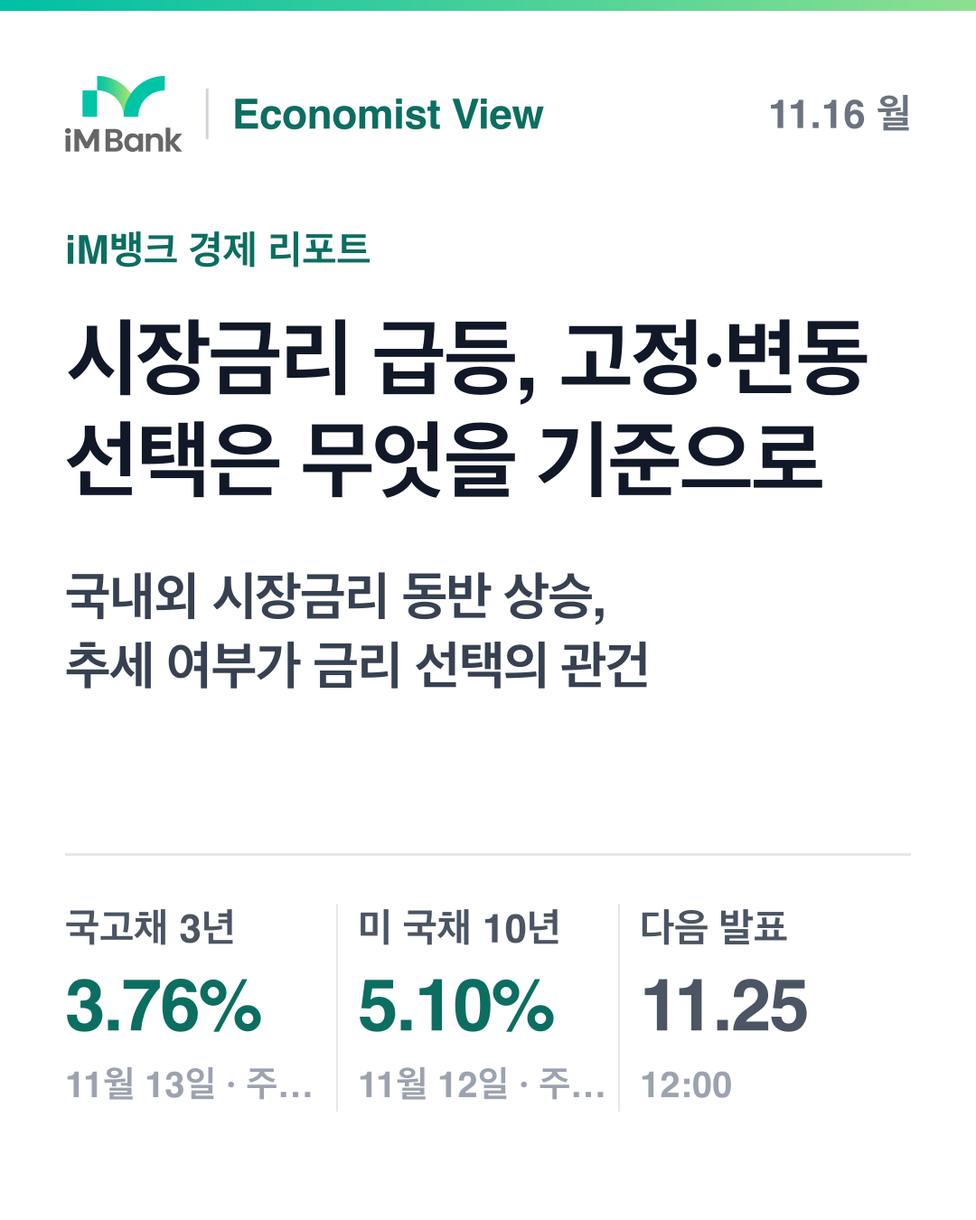
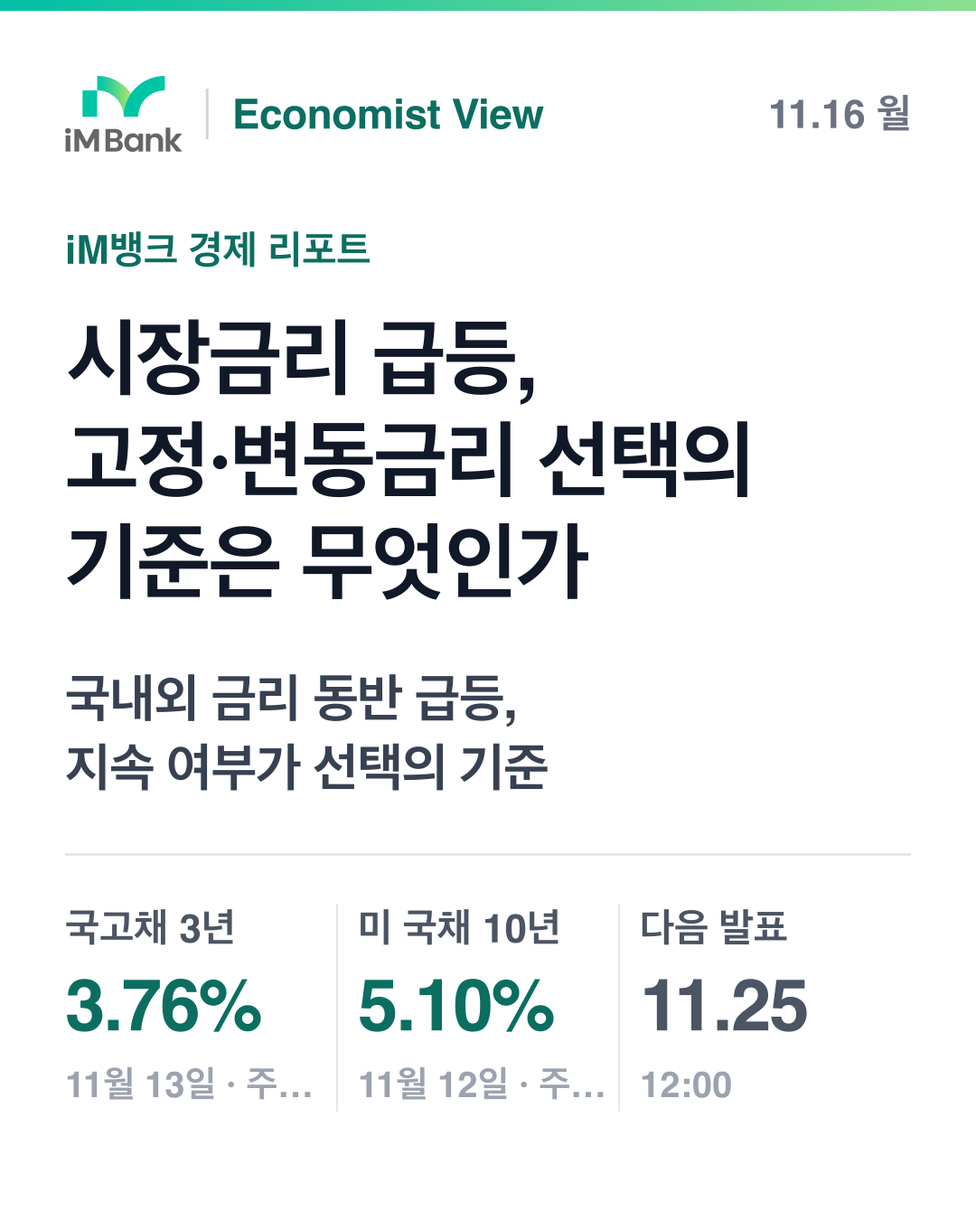
preview: 근거표 모바일 배치 — 확인용
Claude-Session: https://claude.ai/code/session_01VBBXT8zS9TT6j7sAH1a9k2

Changed region(s): [[0.0611, 0.2489, 0.8861, 0.6533]]

diff --git a/public/economist-view/2026-11-16.html b/public/economist-view/2026-11-16.html
@@ -3,9 +3,9 @@
 <head>
 <meta charset="UTF-8">
 <meta name="viewport" content="width=device-width, initial-scale=1.0">
-<title>시장금리 급등, 고정·변동 선택은 무엇을 기준으로 - iM뱅크 Economist View</title>
-<meta property="og:title" content="시장금리 급등, 고정·변동 선택은 무엇을 기준으로">
-<meta property="og:description" content="지난주 국내외 시장금리가 같은 방향으로 크게 올랐지만, 한 주의 움직임만으로 추세를 단정하기는 이릅니다. 고정금리와 변동금리의 선택은 시장 흐름을 맞히는 문제라기보다 본인의 상환 구조와 금리 변동을 감당할 여력을 기준으로 판단하는 것이 합리적이라고 봅니다.">
+<title>시장금리 급등, 고정·변동금리 선택의 기준은 무엇인가 - iM뱅크 Economist View</title>
+<meta property="og:title" content="시장금리 급등, 고정·변동금리 선택의 기준은 무엇인가">
+<meta property="og:description" content="지난주 국내외 시장금리가 함께 크게 올랐지만, 한 주의 움직임만으로 대출금리의 추세가 바뀌었다고 판단하기는 이릅니다. 오른 수준이 유지된다면 신규 대출금리에 시차를 두고 반영될 수 있고 되돌려진다면 그 의미가 작아지므로, 고정·변동금리 선택은 결정 시점보다 본인의 상환 기간과 금리 변동 감내 여력을 기준으로 보는 편이 합">
 <meta property="og:site_name" content="iM뱅크">
 <meta property="og:type" content="article">
 <meta property="og:image" content="https://dailyreport-eta.vercel.app/economist-view/2026-11-16-preview.png">
@@ -530,8 +530,6 @@
 .report-embed .ev-check { background: #F0FAF7; border: 1px solid #CDEDE4; border-radius: 14px; padding: 14px 16px; margin: 18px 0; }
 .report-embed .ev-check-title { font-size: 13px; font-weight: 700; color: #0B6E61; margin-bottom: 6px; }
 .report-embed .ev-next { font-size: 14px; line-height: 1.6; margin: 10px 0 0; color: var(--text); }
-.report-embed .ev-table { width: 100%; border-collapse: collapse; font-size: 12.5px; }
-.report-embed .ev-table th, .report-embed .ev-table td { border-bottom: 1px solid #EEF2F7; padding: 6px 4px; text-align: left; vertical-align: top; word-break: keep-all; }
 .report-embed .ev-view { border: 1px solid #E5E7EB; border-radius: 14px; padding: 12px 14px; margin: 10px 0; }
 .report-embed .ev-view-head { display: flex; align-items: center; gap: 8px; margin-bottom: 6px; }
 .report-embed .ev-view-name { font-size: 14px; font-weight: 700; color: var(--text); }
@@ -545,8 +543,17 @@
 .report-embed .ev-fc th:first-child, .report-embed .ev-fc td:first-child { text-align: left; white-space: normal; word-break: keep-all; }
 .report-embed .ev-fc { width: 100%; border-collapse: collapse; margin: 4px 0 8px; }
 .report-embed .ev-fc .band { display: block; font-size: 12px; color: #6B7280; }
+.report-embed .ev-list { list-style: none; margin: 0; padding: 0; }
+.report-embed .ev-item { display: flex; gap: 8px; align-items: flex-start; padding: 10px 0; border-bottom: 1px solid #EEF2F7; }
+.report-embed .ev-item:last-child { border-bottom: 0; }
+.report-embed .ev-n { flex: none; font-size: 12px; color: #6B7280; font-variant-numeric: tabular-nums; padding-top: 2px; }
+.report-embed .ev-main { flex: 1 1 auto; min-width: 0; }
+.report-embed .ev-what { font-size: 14px; line-height: 1.5; color: var(--text); word-break: keep-all; }
+.report-embed .ev-when { display: block; font-size: 12.5px; color: #4B5563; }
+.report-embed .ev-quote { font-size: 13px; line-height: 1.6; color: #374151; margin-top: 2px; word-break: keep-all; }
+.report-embed .ev-src { font-size: 12px; color: #6B7280; margin-top: 2px; word-break: keep-all; overflow-wrap: anywhere; }
+.report-embed .ev-val { flex: none; font-size: 15px; font-weight: 700; color: var(--text); white-space: nowrap; font-variant-numeric: tabular-nums; padding-left: 6px; }
 .report-embed .ev-agenda li { font-size: 14px; line-height: 1.7; list-style: none; word-break: keep-all; }
-.report-embed .ev-table td.num { text-align: right; white-space: nowrap; font-variant-numeric: tabular-nums; }
 
 </style>
 </head>
@@ -564,47 +571,47 @@
         </div>
     </header>
     <section class="title-block" data-section="title">
-        <h1 class="cover-headline">시장금리 급등, 고정·변동 선택은 무엇을 기준으로</h1>
+        <h1 class="cover-headline">시장금리 급등, 고정·변동금리 선택의 기준은 무엇인가</h1>
     </section>
-    <section class="ev-lede" data-section="lede"><p>지난주 국내외 시장금리가 같은 방향으로 크게 올랐지만, 한 주의 움직임만으로 추세를 단정하기는 이릅니다. 고정금리와 변동금리의 선택은 시장 흐름을 맞히는 문제라기보다 본인의 상환 구조와 금리 변동을 감당할 여력을 기준으로 판단하는 것이 합리적이라고 봅니다.</p></section>
+    <section class="ev-lede" data-section="lede"><p>지난주 국내외 시장금리가 함께 크게 올랐지만, <strong>한 주의 움직임만으로 대출금리의 추세가 바뀌었다고 판단하기는 이릅니다</strong>. 오른 수준이 유지된다면 신규 대출금리에 시차를 두고 반영될 수 있고 되돌려진다면 그 의미가 작아지므로, 고정·변동금리 선택은 결정 시점보다 본인의 상환 기간과 금리 변동 감내 여력을 기준으로 보는 편이 합리적입니다.</p></section>
     <section class="section" data-section="recap">
         <h2 class="section-title">지난주 무엇이 있었나</h2>
-        <p class="ev-p">11월 6일~11월 13일 국고채 3년 금리는 15bp 올라 11월 13일 3.76%, 국고채 10년 금리도 15bp 올라 4.00%를 기록했습니다.<a class="ev-ref" href="#evidence">[1,2,3,4]</a> 미국 국채 10년 금리는 11월 5일~11월 12일 26bp 올라 11월 12일 5.10%였고, 미국 정책금리(연방기금금리 목표 상단)는 11월 13일 기준 4.00%로 한 주간 변동이 없었습니다.<a class="ev-ref" href="#evidence">[5,6,7,8]</a> 같은 기간 코스피는 4.6% 올라 11월 13일 5,290.53을 기록했고, 원/달러 환율은 1.5% 내려 11월 13일 1,336.7원이었습니다.<a class="ev-ref" href="#evidence">[9,10,11,12]</a> 앞서 공표된 2026년 9월중 신규취급액 기준 대출금리는 4.57%로 전월보다 0.17%p 올랐고, 2026년 10월 소비자물가 상승률은 2.8%였습니다.<a class="ev-ref" href="#evidence">[13,14,15]</a></p>
+        <p class="ev-p">11월 13일 기준 국고채 3년 금리는 3.76%로 한 주간 +15bp, 국고채 10년 금리는 4.00%로 +15bp 올랐습니다.<a class="ev-ref" href="#evidence">[1,2,3,4]</a> 미국 국채 10년 금리는 11월 12일 기준 5.10%로 한 주간 +26bp 올랐고, 미국 정책금리(연방기금금리 목표 상단)는 11월 13일 기준 4.00%로 한 주간 +0bp였습니다.<a class="ev-ref" href="#evidence">[5,6,7,8]</a> 같은 기간 코스피는 11월 13일 기준 5,290.53으로 +4.6% 올랐고, 원/달러 환율은 1,336.7원으로 -1.5% 내렸습니다.<a class="ev-ref" href="#evidence">[9,10,11,12]</a> 앞서 10월 29일 공표된 2026년 9월중 신규취급액 기준 대출금리는 4.57%로 전월대비 +0.17%p 올랐고, 11월 3일 공표된 2026년 10월 소비자물가 상승률은 2.8%였습니다.<a class="ev-ref" href="#evidence">[13,14,15]</a></p>
     </section>
     <section class="section" data-section="chart">
         <svg class="ev-chart" viewBox="0 0 680 230" role="img" aria-label="국고채 3년 금리, 미국 국채 10년 금리(같은 눈금, %)"><text x="34" y="204.0" text-anchor="end" font-size="11" fill="#9CA3AF">3.5</text><text x="34" y="161.5" text-anchor="end" font-size="11" fill="#9CA3AF">4.0</text><text x="34" y="119.0" text-anchor="end" font-size="11" fill="#9CA3AF">4.5</text><text x="34" y="76.5" text-anchor="end" font-size="11" fill="#9CA3AF">5.0</text><text x="34" y="34.0" text-anchor="end" font-size="11" fill="#9CA3AF">5.5</text><line x1="40.0" x2="344.0" y1="200.0" y2="200.0" stroke="#EEF2F7"/><line x1="40.0" x2="344.0" y1="157.5" y2="157.5" stroke="#EEF2F7"/><line x1="40.0" x2="344.0" y1="115.0" y2="115.0" stroke="#EEF2F7"/><line x1="40.0" x2="344.0" y1="72.5" y2="72.5" stroke="#EEF2F7"/><line x1="40.0" x2="344.0" y1="30.0" y2="30.0" stroke="#EEF2F7"/><text x="40.0" y="16" font-size="12" font-weight="700" fill="#111827">국고채 3년 금리</text><path d="M40.0,177.9 L344.0,190.7" fill="none" stroke="#0B6E61" stroke-width="2.4"/><circle cx="344.0" cy="190.7" r="3.5" fill="#0B6E61"/><text x="40.0" y="220" text-anchor="start" font-size="11" fill="#6B7280">26.11-13</text><text x="344.0" y="220" text-anchor="end" font-size="11" fill="#6B7280">26.11-06</text><line x1="364.0" x2="668.0" y1="200.0" y2="200.0" stroke="#EEF2F7"/><line x1="364.0" x2="668.0" y1="157.5" y2="157.5" stroke="#EEF2F7"/><line x1="364.0" x2="668.0" y1="115.0" y2="115.0" stroke="#EEF2F7"/><line x1="364.0" x2="668.0" y1="72.5" y2="72.5" stroke="#EEF2F7"/><line x1="364.0" x2="668.0" y1="30.0" y2="30.0" stroke="#EEF2F7"/><text x="364.0" y="16" font-size="12" font-weight="700" fill="#111827">미국 국채 10년 금리</text><path d="M364.0,64.0 L668.0,86.1" fill="none" stroke="#1D4ED8" stroke-width="2.4"/><circle cx="668.0" cy="86.1" r="3.5" fill="#1D4ED8"/><text x="364.0" y="220" text-anchor="start" font-size="11" fill="#6B7280">26.11-12</text><text x="668.0" y="220" text-anchor="end" font-size="11" fill="#6B7280">26.11-05</text></svg>
-        <p class="ev-caption">국고채 3년 금리와 미국 국채 10년 금리의 최근 12개월 추이로, 마지막 관측일은 각각 11월 13일과 11월 12일입니다.<a class="ev-ref" href="#evidence">[2,6]</a></p>
+        <p class="ev-caption">국고채 3년 금리(11월 13일까지)와 미국 국채 10년 금리(11월 12일까지)의 최근 12개월 흐름입니다.<a class="ev-ref" href="#evidence">[1,5]</a></p>
     </section>
     <section class="section" data-section="body">
-        <p class="ev-p">국고채 3년과 10년 금리가 같은 폭으로 오른 것은 단기와 장기 구간이 함께 밀려 올라간 움직임이며, 국내 금리가 미국 국채 10년 금리 상승과 같은 방향으로 움직였다는 점이 지난주의 핵심입니다. 미국 정책금리는 한 주간 변동이 없었고 한국은행 기준금리도 2026년 8월 27일 인상 이후 3.00%로 유지되고 있어, 이번 상승은 정책금리 변경보다 시장의 금리 기대 변화가 반영된 것으로 보이지만 그 원인을 이번 자료만으로 특정하기는 어렵습니다. 같은 주 코스피가 오르고 원/달러 환율이 내린 점을 보면, 이번 금리 상승이 금융시장 전반의 위험 회피와 함께 나타난 것은 아니었습니다.</p>
-        <p class="ev-p">2026년 9월중 신규취급액 기준 대출금리 상승 폭(+0.17%p)은 2026년 9월말 잔액 기준 총대출금리 상승 폭(+0.08%p)보다 컸고, 같은 달 신규취급액 기준 저축성수신금리도 3.45%로 0.24%p 올랐습니다.<a class="ev-ref" href="#evidence">[14,16,17,18]</a> 이는 금리 변화가 새로 취급되는 대출에 먼저, 기존 대출 잔액에는 금리 재산정 주기에 따라 늦게 반영되는 경로와 맞는 흐름이며, 9월 통계에는 11월 시장금리 상승이 아직 담기지 않았습니다. 국고채 금리가 오른 수준을 유지한다면 은행의 조달비용을 거쳐 신규 대출금리에도 시차를 두고 상승 압력이 이어질 수 있고, 상승분이 되돌려진다면 그 압력은 약해질 것입니다.</p>
-        <p class="ev-p">고정금리는 약정 기간 중 시장금리가 오르거나 내려도 적용 금리가 변하지 않으므로, 선택의 핵심은 앞으로의 금리 경로에 대한 불확실성을 얼마나 감당할 수 있는지에 있습니다. 이번 상승이 추세로 이어진다면 금리를 고정해 두는 쪽의 상대적 이점이 커지고, 상승분이 되돌려진다면 변동금리가 시장금리 하락을 반영할 여지가 생깁니다. 한 주의 움직임으로는 어느 쪽인지 가리기 어려우므로, 시장 흐름을 예측하기보다 상환 기간과 소득 대비 상환 부담 같은 본인 여건을 판단 기준으로 삼는 편이 위험을 줄이는 방법이라고 봅니다.</p>
+        <p class="ev-p">이번 상승은 미국 정책금리가 그대로인 가운데 시장금리가 움직인 것이어서, 정책 변경보다는 시장에서 금리 수준이 다시 매겨진 움직임에 가깝다고 봅니다. 국고채 3년과 10년 금리가 같은 폭으로 오른 것은 특정 만기가 아니라 만기 전반의 금리 수준이 함께 올라갔다는 뜻입니다. 한국은행 기준금리는 2026년 11월 13일 현재 3.00%로, 2026년 8월 27일 +0.25%p 인상 이후 그대로입니다.<a class="ev-ref" href="#evidence">[16]</a> 다만 한 주의 변화를 추세로 단정하기는 어렵고, 같은 주 코스피가 +4.6% 오른 점도 시장 전반을 한 방향으로 읽기 어렵게 합니다.</p>
+        <p class="ev-p">2026년 9월말 잔액 기준 총대출금리는 4.48%로 전월말대비 +0.08%p 올랐습니다.<a class="ev-ref" href="#evidence">[17,18]</a> 같은 달 신규취급액 기준 대출금리 상승폭보다 작았다는 점에서, 금리 변화는 새로 취급되는 대출에 먼저 나타나고 기존 대출 전체에는 더 천천히 퍼지는 것으로 읽힙니다. 시장금리 변동은 은행의 조달비용을 거쳐 신규 대출금리에 시차를 두고 반영될 수 있어, 지난주 상승분은 아직 공표된 대출금리 통계에 담겨 있지 않습니다. 국고채 금리가 11월 13일 수준 근처에서 유지된다면 이후 신규 대출금리에 상승 압력으로 남을 수 있고, 상승분이 되돌려진다면 그 압력은 줄어들 것입니다.</p>
+        <p class="ev-p">고정금리는 약정 기간 중 시장금리가 오르거나 내리더라도 적용 금리가 변동하지 않는 방식입니다.<a class="ev-ref" href="#evidence">[19]</a> 따라서 선택의 핵심은 금리 방향을 맞히는 데 있기보다, 약정 기간 동안 금리 변동을 얼마나 감당할 수 있는지에 있습니다. 시장금리 상승이 이어지는 경우 변동금리 차입자의 이자 부담이 커질 수 있고, 반대로 상승분이 되돌려지는 경우에는 고정금리로 정해 둔 금리가 상대적으로 높게 남을 수 있습니다.</p>
     </section>
     <section class="section" data-section="view">
         <h2 class="section-title">이코노미스트의 판단</h2>
         <div class="ev-view">
             <div class="ev-view-head"><span class="ev-view-name">한국은행 기준금리</span><span class="ev-badge s-신규">신규</span></div>
-            <p>한국은행 기준금리는 2026년 8월 27일 인상 이후 3.00%가 유지되고 있어, 당분간은 추가 조정보다 인상 효과와 물가 흐름을 점검하는 국면으로 판단합니다.</p>
-            <p><span class="lbl">근거</span>2026년 10월 소비자물가 상승률이 2.8%이고 2026년 3분기 실질 GDP 성장률(전기비, 계절조정)이 1.0%여서, 정책 방향을 급히 바꿀 신호는 제한적이라고 봅니다.</p>
-            <p><span class="lbl">판단을 바꿀 조건</span>물가 상승률이 높아지는 가운데 시장금리 상승이 이어지면 추가 긴축 가능성을, 성장 지표가 뚜렷이 둔화되면 완화 가능성을 다시 점검하겠습니다.</p>
+            <p>시장금리가 크게 움직였더라도 기준금리는 현 수준이 당분간 유지되는 경로를 기본으로 보되, 시장금리 상승이 이어진다면 정책 경로에 대한 논의가 다시 부각될 수 있습니다.</p>
+            <p><span class="lbl">근거</span>한국은행 기준금리는 2026년 11월 13일 현재 3.00%로, 2026년 8월 27일 +0.25%p 인상 이후 변동이 없습니다.<a class="ev-ref" href="#evidence">[16]</a></p>
+            <p><span class="lbl">판단을 바꿀 조건</span>물가 상승률이 높아지는 흐름이 여러 달 확인되거나 경기 둔화 신호가 뚜렷해진다면 이 판단을 바꾸겠습니다.</p>
         </div>
         <div class="ev-view">
             <div class="ev-view-head"><span class="ev-view-name">물가</span><span class="ev-badge s-신규">신규</span></div>
-            <p>모형 전망으로는 2027년 1월 소비자물가 상승률 중앙값이 2.8%(68% 구간 2.0~3.5%)로, 유가와 환율이 지금 수준에서 크게 벗어나지 않는다면 현재와 비슷한 수준이 이어질 수 있지만 구간이 넓어 방향을 단정하기는 어렵다고 판단합니다.</p>
-            <p><span class="lbl">근거</span>2026년 10월 소비자물가 상승률은 2.8%, 전월비는 0.2%였습니다.<a class="ev-ref" href="#evidence">[15,19]</a></p>
-            <p><span class="lbl">판단을 바꿀 조건</span>브렌트유 가격이나 원/달러 환율이 크게 오른다면 수입 가격을 통해 물가의 상방 위험이 커질 수 있어 판단을 다시 보겠습니다.</p>
+            <p>통계 모형 전망상 2027년 1월 소비자물가 상승률은 중앙값 2.8%(68% 구간 2.0~3.5%)로, 현재 수준에서 크게 벗어나지 않는 흐름을 기본으로 보되 구간이 넓어 단정하지 않습니다.</p>
+            <p><span class="lbl">근거</span>2026년 10월 소비자물가 상승률은 2.8%, 소비자물가 전월비는 0.2%였습니다.<a class="ev-ref" href="#evidence">[15,20]</a></p>
+            <p><span class="lbl">판단을 바꿀 조건</span>11월 11일 기준 92.14달러인 브렌트유가 크게 오르거나 원/달러 환율 하락이 되돌려져 수입 비용 부담이 커진다면 물가의 상방 위험을 다시 점검하겠습니다.</p>
         </div>
         <div class="ev-view">
             <div class="ev-view-head"><span class="ev-view-name">경기</span><span class="ev-badge s-신규">신규</span></div>
-            <p>2026년 3분기 실질 GDP 성장률(전기비, 계절조정) 1.0%와 2026년 9월 전산업생산지수 증가율(전년동월비) 5.0%를 보면 경기는 확장 흐름을 이어가고 있다고 판단합니다.</p>
-            <p><span class="lbl">근거</span>11월 6일~11월 13일 코스피가 4.6% 오르는 등 금융시장도 경기 위축 신호를 보이지 않았습니다.</p>
-            <p><span class="lbl">판단을 바꿀 조건</span>시장금리 상승이 신규 대출금리로 이어져 가계·기업의 이자 부담이 커지고 이후 생산·성장 지표에서 둔화가 확인된다면 판단을 수정하겠습니다.</p>
+            <p>최근 생산 지표로 보면 경기가 금리 상승을 일정 부분 견딜 여력은 있다고 보지만, 시장금리 상승이 지속된다면 차입 부담이 시차를 두고 내수에 작용할 수 있습니다.</p>
+            <p><span class="lbl">근거</span>2026년 3분기 실질 GDP 성장률(전기비, 계절조정)은 1.0%, 2026년 9월 전산업생산지수 증가율(전년동월비)은 5.0%였습니다.<a class="ev-ref" href="#evidence">[21,22]</a></p>
+            <p><span class="lbl">판단을 바꿀 조건</span>신규 대출금리 상승이 이어지는 가운데 생산 지표가 꺾이는 신호가 확인된다면 경기 판단을 낮추겠습니다.</p>
         </div>
         <div class="ev-view">
             <div class="ev-view-head"><span class="ev-view-name">시장금리·환율</span><span class="ev-badge s-신규">신규</span></div>
-            <p>국내 시장금리는 미국 국채 금리와 같은 방향으로 움직이는 흐름이 이어질 것으로 보며, 미국 금리 상승이 유지된다면 국고채 금리도 오른 수준에서 머물 가능성이 높다고 판단합니다.</p>
-            <p><span class="lbl">근거</span>11월 13일 기준 국고채 3년 금리는 3.76%, 국고채 10년 금리는 4.00%였고, 11월 12일 기준 미국 국채 10년 금리는 5.10%였습니다.<a class="ev-ref" href="#evidence">[2,4,6]</a></p>
-            <p><span class="lbl">판단을 바꿀 조건</span>다음 주 국내 금리가 지난주 상승분을 되돌린다면 이번 움직임을 일시적 변동으로 보고 판단을 다시 점검하겠습니다.</p>
+            <p>국내 시장금리는 미국 금리와 같은 방향으로 오른 수준에서 등락할 가능성을 기본으로 보되, 한 주의 급등을 추세 전환으로 보지는 않습니다.</p>
+            <p><span class="lbl">근거</span>11월 12일 기준 미국 국채 10년 금리가 5.10%로 +26bp 오르는 동안 11월 13일 기준 국고채 3년 금리도 3.76%로 +15bp 올라 같은 방향으로 움직였습니다.<a class="ev-ref" href="#evidence">[1,2,5,6]</a></p>
+            <p><span class="lbl">판단을 바꿀 조건</span>다음 주에도 국고채 금리가 오른 수준을 유지한다면 이 판단을 유지하고, 상승분이 되돌려진다면 판단을 다시 점검하겠습니다.</p>
         </div>
     </section>
     <section class="section" data-section="forecast">
@@ -615,21 +622,109 @@
     
     <section class="ev-check" data-section="reader-check">
         <div class="ev-check-title">내 계약에서 확인할 것</div>
-        <p class="ev-p" style="margin:0">본인 대출의 금리 재산정 주기와 남은 만기, 금리가 오를 때 월 상환액이 얼마나 늘어나는지, 중도상환 관련 조건을 먼저 확인해 보시기 바랍니다.</p>
+        <p class="ev-p" style="margin:0">본인 대출의 금리 재산정 주기와 남은 만기, 그리고 금리가 오를 때 늘어나는 상환액을 감당할 여력이 있는지를 먼저 확인해 보시기 바랍니다.</p>
     </section>
     <section data-section="next">
-        <p class="ev-next">11월 25일 12:00 공표되는 2026년 10월 금융기관 가중평균금리로 신규 대출금리 흐름을 확인하고, 국내 시장금리가 지난주 오른 수준을 유지하는지 함께 보겠습니다.</p>
+        <p class="ev-next">다음 주에는 국내 시장금리가 오른 수준을 지키는지와 함께, 11월 25일 12:00 공표되는 2026년 10월 금융기관 가중평균금리에서 신규 대출금리 흐름을 확인하겠습니다.</p>
         <p class="wk-note">다음 발표: 2026년 10월 금융기관 가중평균금리 · 11월 25일 12:00 (한국은행 통계 공표 일정)</p>
     </section>
     
     <details class="more" id="evidence" data-section="evidence">
         <summary class="more-summary">근거표</summary>
         <div class="more-body">
-        <table class="ev-table"><thead><tr><th>#</th><th>항목</th><th style="text-align:right">값</th><th>출처</th></tr></thead><tbody><tr><td>[1]</td><td>국고채 3년 금리 · 11월 6일~11월 13일 <span class="wk-sub">(1주 변화(금리는 bp, 그 외 %))</span></td><td class="num">+15bp</td><td><a href="https://ecos.bok.or.kr/#/SearchStat" target="_blank" rel="noopener noreferrer">한국은행 ECOS</a><div class="wk-sub">공표 11월 13일 기준</div></td></tr><tr><td>[2]</td><td>국고채 3년 금리 · 11월 13일</td><td class="num">3.76%</td><td><a href="https://ecos.bok.or.kr/#/SearchStat" target="_blank" rel="noopener noreferrer">한국은행 ECOS</a><div class="wk-sub">공표 11월 13일 기준</div></td></tr><tr><td>[3]</td><td>국고채 10년 금리 · 11월 6일~11월 13일 <span class="wk-sub">(1주 변화(금리는 bp, 그 외 %))</span></td><td class="num">+15bp</td><td><a href="https://ecos.bok.or.kr/#/SearchStat" target="_blank" rel="noopener noreferrer">한국은행 ECOS</a><div class="wk-sub">공표 11월 13일 기준</div></td></tr><tr><td>[4]</td><td>국고채 10년 금리 · 11월 13일</td><td class="num">4.00%</td><td><a href="https://ecos.bok.or.kr/#/SearchStat" target="_blank" rel="noopener noreferrer">한국은행 ECOS</a><div class="wk-sub">공표 11월 13일 기준</div></td></tr><tr><td>[5]</td><td>미국 국채 10년 금리 · 11월 5일~11월 12일 <span class="wk-sub">(1주 변화(금리는 bp, 그 외 %))</span></td><td class="num">+26bp</td><td><a href="https://fred.stlouisfed.org/series/DGS10" target="_blank" rel="noopener noreferrer">FRED(미 연준·재무부·EIA 자료)</a><div class="wk-sub">공표 11월 12일 기준</div></td></tr><tr><td>[6]</td><td>미국 국채 10년 금리 · 11월 12일</td><td class="num">5.10%</td><td><a href="https://fred.stlouisfed.org/series/DGS10" target="_blank" rel="noopener noreferrer">FRED(미 연준·재무부·EIA 자료)</a><div class="wk-sub">공표 11월 12일 기준</div></td></tr><tr><td>[7]</td><td>미국 정책금리(연방기금금리 목표 상단) · 11월 13일</td><td class="num">4.00%</td><td><a href="https://fred.stlouisfed.org/series/DFEDTARU" target="_blank" rel="noopener noreferrer">FRED(미 연준·재무부·EIA 자료)</a><div class="wk-sub">공표 11월 13일 기준</div></td></tr><tr><td>[8]</td><td>미국 정책금리(연방기금금리 목표 상단) · 11월 6일~11월 13일 <span class="wk-sub">(1주 변화(금리는 bp, 그 외 %))</span></td><td class="num">+0bp</td><td><a href="https://fred.stlouisfed.org/series/DFEDTARU" target="_blank" rel="noopener noreferrer">FRED(미 연준·재무부·EIA 자료)</a><div class="wk-sub">공표 11월 13일 기준</div></td></tr><tr><td>[9]</td><td>코스피 · 11월 6일~11월 13일 <span class="wk-sub">(1주 변화(금리는 bp, 그 외 %))</span></td><td class="num">+4.6%</td><td><a href="https://ecos.bok.or.kr/#/SearchStat" target="_blank" rel="noopener noreferrer">한국은행 ECOS</a><div class="wk-sub">공표 11월 13일 기준</div></td></tr><tr><td>[10]</td><td>코스피 · 11월 13일</td><td class="num">5,290.53</td><td><a href="https://ecos.bok.or.kr/#/SearchStat" target="_blank" rel="noopener noreferrer">한국은행 ECOS</a><div class="wk-sub">공표 11월 13일 기준</div></td></tr><tr><td>[11]</td><td>원/달러 환율 · 11월 6일~11월 13일 <span class="wk-sub">(1주 변화(금리는 bp, 그 외 %))</span></td><td class="num">-1.5%</td><td><a href="https://ecos.bok.or.kr/#/SearchStat" target="_blank" rel="noopener noreferrer">한국은행 ECOS</a><div class="wk-sub">공표 11월 13일 기준</div></td></tr><tr><td>[12]</td><td>원/달러 환율 · 11월 13일</td><td class="num">1,336.7원</td><td><a href="https://ecos.bok.or.kr/#/SearchStat" target="_blank" rel="noopener noreferrer">한국은행 ECOS</a><div class="wk-sub">공표 11월 13일 기준</div></td></tr><tr><td>[13]</td><td>예금은행 대출금리(신규취급액 기준, 대출평균) · 2026년 9월중</td><td class="num">4.57%</td><td><a href="https://ecos.bok.or.kr/#/SearchStat" target="_blank" rel="noopener noreferrer">한국은행</a><div class="wk-sub">공표 10월 29일 12:00</div></td></tr><tr><td>[14]</td><td>예금은행 대출금리(신규취급액 기준, 대출평균) · 2026년 9월중 <span class="wk-sub">(당월 − 전월(공표 소수 둘째 자리 기준))</span></td><td class="num">+0.17%p</td><td><a href="https://ecos.bok.or.kr/#/SearchStat" target="_blank" rel="noopener noreferrer">한국은행(파생)</a><div class="wk-sub">공표 10월 29일 12:00</div></td></tr><tr><td>[15]</td><td>소비자물가 상승률(전년동월비) · 2026년 10월</td><td class="num">2.8%</td><td><a href="https://kosis.kr/statHtml/statHtml.do?orgId=101&amp;tblId=DT_1YL20581" target="_blank" rel="noopener noreferrer">국가데이터처(KOSIS)</a><div class="wk-sub">공표 11월 3일</div></td></tr><tr><td>[16]</td><td>예금은행 총대출금리(잔액 기준) · 2026년 9월말 <span class="wk-sub">(당월 − 전월(공표 소수 둘째 자리 기준))</span></td><td class="num">+0.08%p</td><td><a href="https://ecos.bok.or.kr/#/SearchStat" target="_blank" rel="noopener noreferrer">한국은행(파생)</a><div class="wk-sub">공표 10월 29일 12:00</div></td></tr><tr><td>[17]</td><td>예금은행 저축성수신금리(신규취급액 기준) · 2026년 9월중</td><td class="num">3.45%</td><td><a href="https://ecos.bok.or.kr/#/SearchStat" target="_blank" rel="noopener noreferrer">한국은행</a><div class="wk-sub">공표 10월 29일 12:00</div></td></tr><tr><td>[18]</td><td>예금은행 저축성수신금리(신규취급액 기준) · 2026년 9월중 <span class="wk-sub">(당월 − 전월(공표 소수 둘째 자리 기준))</span></td><td class="num">+0.24%p</td><td><a href="https://ecos.bok.or.kr/#/SearchStat" target="_blank" rel="noopener noreferrer">한국은행(파생)</a><div class="wk-sub">공표 10월 29일 12:00</div></td></tr><tr><td>[19]</td><td>소비자물가 전월비 · 2026년 10월</td><td class="num">0.2%</td><td><a href="https://kosis.kr/statHtml/statHtml.do?orgId=101&amp;tblId=DT_1J22001" target="_blank" rel="noopener noreferrer">국가데이터처(KOSIS, 파생)</a><div class="wk-sub">공표 지수 기준 파생</div></td></tr></tbody></table>
+        <ol class="ev-list"><li class="ev-item"><span class="ev-n">[1]</span><div class="ev-main">
+                <div class="ev-what">국고채 3년 금리<span class="ev-when">11월 13일</span></div>
+                
+                <div class="ev-src"><a href="https://ecos.bok.or.kr/#/SearchStat" target="_blank" rel="noopener noreferrer">한국은행 ECOS</a> · 공표 11월 13일 기준</div>
+            </div><span class="ev-val">3.76%</span></li><li class="ev-item"><span class="ev-n">[2]</span><div class="ev-main">
+                <div class="ev-what">국고채 3년 금리<span class="ev-when">11월 6일~11월 13일 1주 변화(bp)</span></div>
+                
+                <div class="ev-src"><a href="https://ecos.bok.or.kr/#/SearchStat" target="_blank" rel="noopener noreferrer">한국은행 ECOS</a> · 공표 11월 13일 기준</div>
+            </div><span class="ev-val">+15bp</span></li><li class="ev-item"><span class="ev-n">[3]</span><div class="ev-main">
+                <div class="ev-what">국고채 10년 금리<span class="ev-when">11월 13일</span></div>
+                
+                <div class="ev-src"><a href="https://ecos.bok.or.kr/#/SearchStat" target="_blank" rel="noopener noreferrer">한국은행 ECOS</a> · 공표 11월 13일 기준</div>
+            </div><span class="ev-val">4.00%</span></li><li class="ev-item"><span class="ev-n">[4]</span><div class="ev-main">
+                <div class="ev-what">국고채 10년 금리<span class="ev-when">11월 6일~11월 13일 1주 변화(bp)</span></div>
+                
+                <div class="ev-src"><a href="https://ecos.bok.or.kr/#/SearchStat" target="_blank" rel="noopener noreferrer">한국은행 ECOS</a> · 공표 11월 13일 기준</div>
+            </div><span class="ev-val">+15bp</span></li><li class="ev-item"><span class="ev-n">[5]</span><div class="ev-main">
+                <div class="ev-what">미국 국채 10년 금리<span class="ev-when">11월 12일</span></div>
+                
+                <div class="ev-src"><a href="https://fred.stlouisfed.org/series/DGS10" target="_blank" rel="noopener noreferrer">FRED(미 연준·재무부·EIA 자료)</a> · 공표 11월 12일 기준</div>
+            </div><span class="ev-val">5.10%</span></li><li class="ev-item"><span class="ev-n">[6]</span><div class="ev-main">
+                <div class="ev-what">미국 국채 10년 금리<span class="ev-when">11월 5일~11월 12일 1주 변화(bp)</span></div>
+                
+                <div class="ev-src"><a href="https://fred.stlouisfed.org/series/DGS10" target="_blank" rel="noopener noreferrer">FRED(미 연준·재무부·EIA 자료)</a> · 공표 11월 12일 기준</div>
+            </div><span class="ev-val">+26bp</span></li><li class="ev-item"><span class="ev-n">[7]</span><div class="ev-main">
+                <div class="ev-what">미국 정책금리(연방기금금리 목표 상단)<span class="ev-when">11월 13일</span></div>
+                
+                <div class="ev-src"><a href="https://fred.stlouisfed.org/series/DFEDTARU" target="_blank" rel="noopener noreferrer">FRED(미 연준·재무부·EIA 자료)</a> · 공표 11월 13일 기준</div>
+            </div><span class="ev-val">4.00%</span></li><li class="ev-item"><span class="ev-n">[8]</span><div class="ev-main">
+                <div class="ev-what">미국 정책금리(연방기금금리 목표 상단)<span class="ev-when">11월 6일~11월 13일 1주 변화(bp)</span></div>
+                
+                <div class="ev-src"><a href="https://fred.stlouisfed.org/series/DFEDTARU" target="_blank" rel="noopener noreferrer">FRED(미 연준·재무부·EIA 자료)</a> · 공표 11월 13일 기준</div>
+            </div><span class="ev-val">+0bp</span></li><li class="ev-item"><span class="ev-n">[9]</span><div class="ev-main">
+                <div class="ev-what">코스피<span class="ev-when">11월 13일</span></div>
+                
+                <div class="ev-src"><a href="https://ecos.bok.or.kr/#/SearchStat" target="_blank" rel="noopener noreferrer">한국은행 ECOS</a> · 공표 11월 13일 기준</div>
+            </div><span class="ev-val">5,290.53</span></li><li class="ev-item"><span class="ev-n">[10]</span><div class="ev-main">
+                <div class="ev-what">코스피<span class="ev-when">11월 6일~11월 13일 1주 변화율</span></div>
+                
+                <div class="ev-src"><a href="https://ecos.bok.or.kr/#/SearchStat" target="_blank" rel="noopener noreferrer">한국은행 ECOS</a> · 공표 11월 13일 기준</div>
+            </div><span class="ev-val">+4.6%</span></li><li class="ev-item"><span class="ev-n">[11]</span><div class="ev-main">
+                <div class="ev-what">원/달러 환율<span class="ev-when">11월 13일</span></div>
+                
+                <div class="ev-src"><a href="https://ecos.bok.or.kr/#/SearchStat" target="_blank" rel="noopener noreferrer">한국은행 ECOS</a> · 공표 11월 13일 기준</div>
+            </div><span class="ev-val">1,336.7원</span></li><li class="ev-item"><span class="ev-n">[12]</span><div class="ev-main">
+                <div class="ev-what">원/달러 환율<span class="ev-when">11월 6일~11월 13일 1주 변화율</span></div>
+                
+                <div class="ev-src"><a href="https://ecos.bok.or.kr/#/SearchStat" target="_blank" rel="noopener noreferrer">한국은행 ECOS</a> · 공표 11월 13일 기준</div>
+            </div><span class="ev-val">-1.5%</span></li><li class="ev-item"><span class="ev-n">[13]</span><div class="ev-main">
+                <div class="ev-what">예금은행 대출금리(신규취급액 기준, 대출평균)<span class="ev-when">2026년 9월중</span></div>
+                
+                <div class="ev-src"><a href="https://ecos.bok.or.kr/#/SearchStat" target="_blank" rel="noopener noreferrer">한국은행</a> · 공표 10월 29일 12:00</div>
+            </div><span class="ev-val">4.57%</span></li><li class="ev-item"><span class="ev-n">[14]</span><div class="ev-main">
+                <div class="ev-what">예금은행 대출금리(신규취급액 기준, 대출평균)<span class="ev-when">2026년 9월중 당월 − 전월(공표 소수 둘째 자리 기준)</span></div>
+                
+                <div class="ev-src"><a href="https://ecos.bok.or.kr/#/SearchStat" target="_blank" rel="noopener noreferrer">한국은행(파생)</a> · 공표 10월 29일 12:00</div>
+            </div><span class="ev-val">+0.17%p</span></li><li class="ev-item"><span class="ev-n">[15]</span><div class="ev-main">
+                <div class="ev-what">소비자물가 상승률(전년동월비)<span class="ev-when">2026년 10월</span></div>
+                
+                <div class="ev-src"><a href="https://kosis.kr/statHtml/statHtml.do?orgId=101&amp;tblId=DT_1YL20581" target="_blank" rel="noopener noreferrer">국가데이터처(KOSIS)</a> · 공표 11월 3일</div>
+            </div><span class="ev-val">2.8%</span></li><li class="ev-item"><span class="ev-n">[16]</span><div class="ev-main">
+                <div class="ev-what">한국은행 기준금리<span class="ev-when">2026년 11월 13일 현재</span></div>
+                
+                <div class="ev-src"><a href="https://ecos.bok.or.kr/#/SearchStat" target="_blank" rel="noopener noreferrer">한국은행</a> · 공표 일별</div>
+            </div><span class="ev-val">3.00%</span></li><li class="ev-item"><span class="ev-n">[17]</span><div class="ev-main">
+                <div class="ev-what">예금은행 총대출금리(잔액 기준)<span class="ev-when">2026년 9월말</span></div>
+                
+                <div class="ev-src"><a href="https://ecos.bok.or.kr/#/SearchStat" target="_blank" rel="noopener noreferrer">한국은행</a> · 공표 10월 29일 12:00</div>
+            </div><span class="ev-val">4.48%</span></li><li class="ev-item"><span class="ev-n">[18]</span><div class="ev-main">
+                <div class="ev-what">예금은행 총대출금리(잔액 기준)<span class="ev-when">2026년 9월말 당월 − 전월(공표 소수 둘째 자리 기준)</span></div>
+                
+                <div class="ev-src"><a href="https://ecos.bok.or.kr/#/SearchStat" target="_blank" rel="noopener noreferrer">한국은행(파생)</a> · 공표 10월 29일 12:00</div>
+            </div><span class="ev-val">+0.08%p</span></li><li class="ev-item"><span class="ev-n">[19]</span><div class="ev-main">
+                <div class="ev-what">용어 정의: 고정금리</div>
+                <div class="ev-quote">“고정금리는 예금을 하거나 대출을 받을 때 약정 기간 중 금리를 일정 수준으로 고정, 시장금리가 오르거나 내리더라도 적용 금리가 변동하지 않음”</div>
+                <div class="ev-src"><a href="https://ecos.bok.or.kr/#/SearchStat" target="_blank" rel="noopener noreferrer">한국은행 ECOS 통계용어</a></div>
+            </div></li><li class="ev-item"><span class="ev-n">[20]</span><div class="ev-main">
+                <div class="ev-what">소비자물가 전월비<span class="ev-when">2026년 10월</span></div>
+                
+                <div class="ev-src"><a href="https://kosis.kr/statHtml/statHtml.do?orgId=101&amp;tblId=DT_1J22001" target="_blank" rel="noopener noreferrer">국가데이터처(KOSIS, 파생)</a> · 공표 지수 기준 파생</div>
+            </div><span class="ev-val">0.2%</span></li><li class="ev-item"><span class="ev-n">[21]</span><div class="ev-main">
+                <div class="ev-what">실질 GDP 성장률(전기비, 계절조정)<span class="ev-when">2026년 3분기</span></div>
+                
+                <div class="ev-src"><a href="https://ecos.bok.or.kr/#/SearchStat" target="_blank" rel="noopener noreferrer">한국은행 ECOS</a></div>
+            </div><span class="ev-val">1.0%</span></li><li class="ev-item"><span class="ev-n">[22]</span><div class="ev-main">
+                <div class="ev-what">전산업생산지수 증가율(전년동월비)<span class="ev-when">2026년 9월</span></div>
+                
+                <div class="ev-src"><a href="https://ecos.bok.or.kr/#/SearchStat" target="_blank" rel="noopener noreferrer">한국은행 ECOS</a></div>
+            </div><span class="ev-val">5.0%</span></li></ol>
         </div>
     </details>
     <footer class="report-footer" data-section="footer">
-        <div class="copyright">© iM뱅크 | Economist View | 자료: 한국은행 ECOS·보도자료·통계 공표 일정 · FRED(미 연준·재무부·노동통계국·EIA 자료) · 국가데이터처, KOSIS · iM뱅크 AI 이코노미스트 통계 모형(전망) | 자료 기준 2026-11-14 09:10</div>
+        <div class="copyright">© iM뱅크 | Economist View | 자료: 한국은행 ECOS·보도자료·통계 공표 일정 · FRED(미 연준·재무부·노동통계국·EIA 자료) · 국가데이터처, KOSIS · iM뱅크 AI 이코노미스트 통계 모형(전망) | 자료 기준 2026-11-14 09:22</div>
         <div class="legal-notice">
             <div class="legal-title">유의사항</div>
             <ul class="legal-list">
